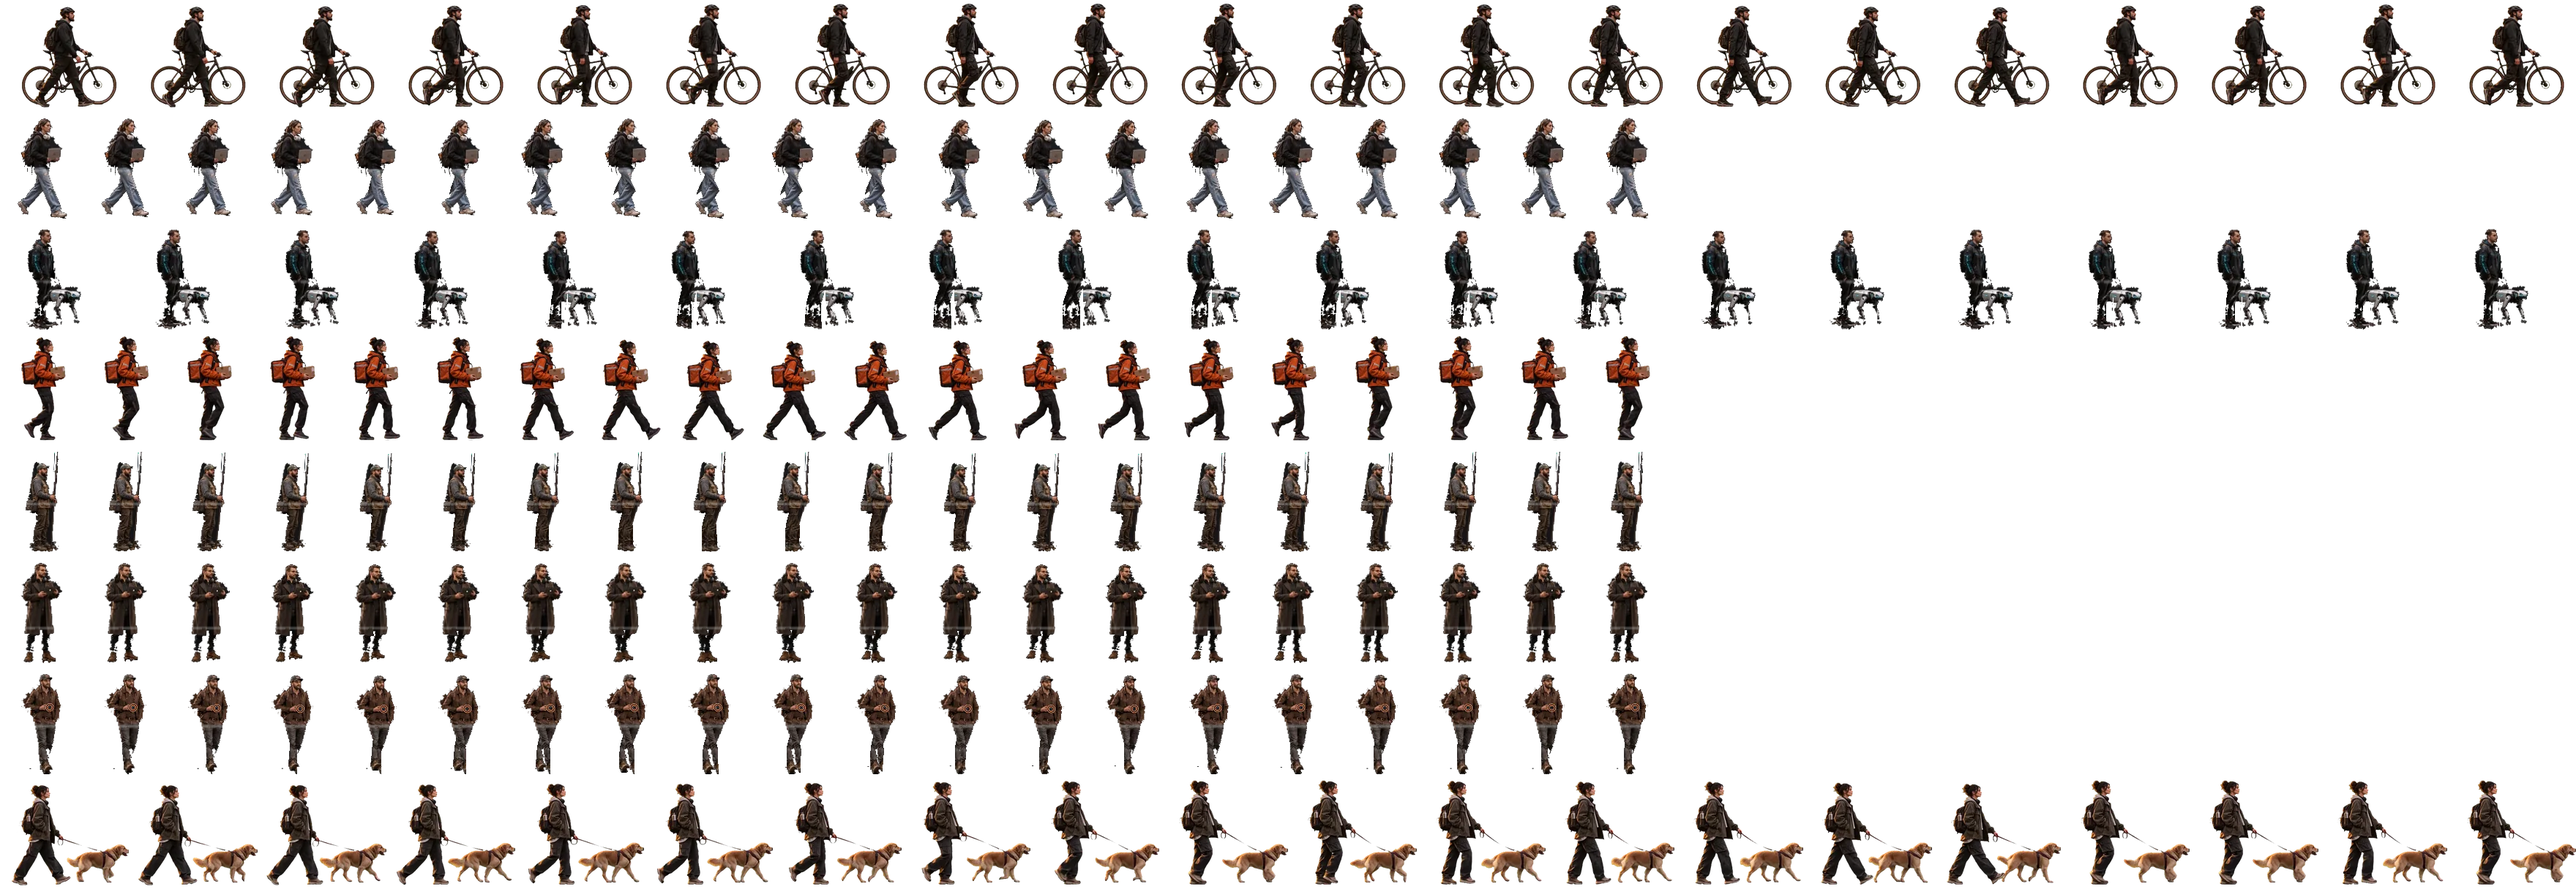
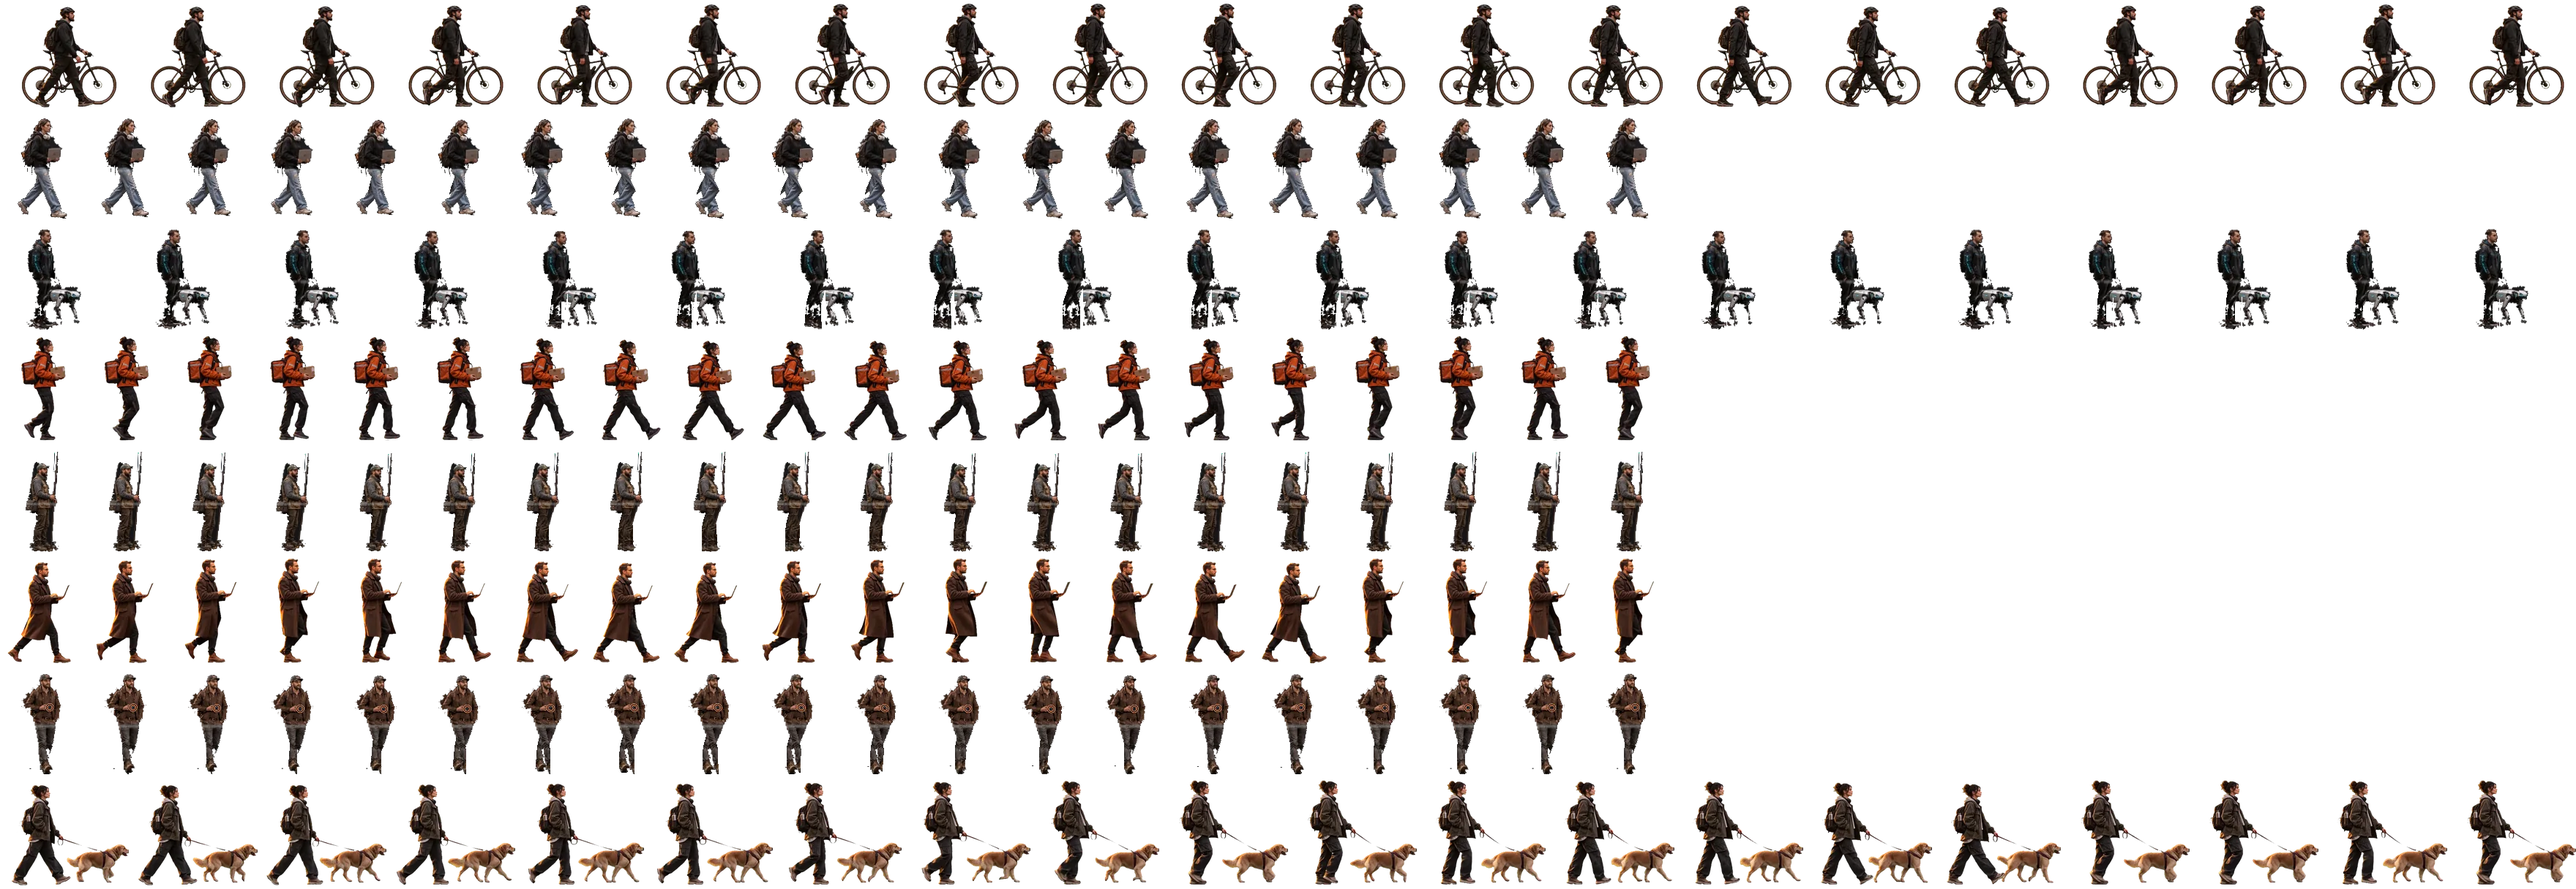
feat(street): the kernel author walks from film; footer and copy fixes
- The kernel author walks from his own generated clip (side-on cut-out
  made from the concept sheet), so all six near-lane people now walk from
  film. Strip and measured stride via scripts/street-walk-strip.mjs.
- The footer circuit is removed rather than hidden behind the photograph.
  music.spec's offscreen/reduced-motion contract now runs on the home
  page's avatar-pad circuit, which still exists.
- From a laptop up the footer no longer repeats the header's page links;
  it keeps Back to top. Phones keep the full list. The links test checks
  visible links and that the header nav is present instead.
- About page title, meta description and intro no longer say "based in
  Varna" (EN and BG): "near Varna" / "from Devnya, near Varna".

Changed region(s): [[0.0, 0.625, 0.6562, 0.75]]

diff --git a/src/i18n/ui/about.ts b/src/i18n/ui/about.ts
@@ -14,8 +14,8 @@ export const about = {
       before: { en: 'I am ', bg: 'Аз съм ' },
       name: { en: 'Nikolay Georgiev', bg: 'Николай Георгиев' },
       after: {
-        en: ', a software engineer based in Varna, Bulgaria, with a Computer Science degree from the University of Ruse. By day I work as a backend developer at DXC Technology on an enterprise insurance platform, where the work is about reading large legacy systems carefully and shipping fixes through a real release process.',
-        bg: ', софтуерен инженер от Варна с бакалавърска степен по компютърни науки от Русенския университет. През деня съм бекенд разработчик в DXC Technology и работя по корпоративна застрахователна платформа. Там работата ми е да чета внимателно големи наследени системи и да пускам корекции през реален процес по издаване на версии.',
+        en: ', a software engineer from Devnya, near Varna, Bulgaria, with a Computer Science degree from the University of Ruse. By day I work as a backend developer at DXC Technology on an enterprise insurance platform, where the work is about reading large legacy systems carefully and shipping fixes through a real release process.',
+        bg: ', софтуерен инженер от Девня, край Варна, с бакалавърска степен по компютърни науки от Русенския университет. През деня съм бекенд разработчик в DXC Technology и работя по корпоративна застрахователна платформа. Там работата ми е да чета внимателно големи наследени системи и да пускам корекции през реален процес по издаване на версии.',
       },
     },
     own: {

diff --git a/tests/e2e/music.spec.ts b/tests/e2e/music.spec.ts
@@ -300,8 +300,7 @@ test('the circuit eases through playback, buffering and decay', () => {
 
 test('keeping the circuit offscreen or reduced stops rendering', async ({ page }) => {
   await page.goto('/');
-  const field = page.locator('circuit-field[data-place=footer]');
-  await expect(field).not.toHaveAttribute('data-running');
+  const field = page.locator('circuit-field[data-place=avatar-pad]');
   await field.scrollIntoViewIfNeeded();
   await expect(field).toHaveAttribute('data-running', '');
   await expect(field).toHaveAttribute('data-playback', 'idle');
@@ -311,7 +310,9 @@ test('keeping the circuit offscreen or reduced stops rendering', async ({ page }
   await expect(field.locator('canvas')).toBeHidden();
   await page.emulateMedia({ reducedMotion: 'no-preference' });
   await expect(field).toHaveAttribute('data-running', '');
-  await page.evaluate(() => window.scrollTo({ top: 0, behavior: 'instant' }));
+  await page.evaluate(() =>
+    window.scrollTo({ top: document.documentElement.scrollHeight, behavior: 'instant' }),
+  );
   await expect(field).not.toHaveAttribute('data-running');
 });
 

diff --git a/tests/e2e/street.spec.ts b/tests/e2e/street.spec.ts
@@ -139,8 +139,17 @@ test.describe('street: layout', () => {
 
   test('the footer keeps its links, and nothing covers them', async ({ page }) => {
     await open(page);
-    const links = page.locator('.street-nav a, .cast a, .site-footer .baseline a');
-    expect(await links.count()).toBeGreaterThanOrEqual(15);
+    // From a laptop up the header carries the page links and the footer keeps
+    // only the way back; on a phone the footer lists them again.
+    const links = page
+      .locator('.street-nav a, .cast a, .site-footer .baseline a')
+      .filter({ visible: true });
+    const wide = page.viewportSize()!.width >= 960;
+    expect(await links.count()).toBeGreaterThanOrEqual(wide ? 9 : 15);
+    if (wide) {
+      await expect(page.locator('.street-nav ul')).toBeHidden();
+      await expect(page.locator('header nav a').first()).toBeVisible();
+    }
     for (const link of await links.all()) {
       await link.scrollIntoViewIfNeeded();
       // The element under the middle of each link is the link (or its text).

diff --git a/src/i18n/ui/seo.ts b/src/i18n/ui/seo.ts
@@ -43,11 +43,11 @@ export const seo = {
   },
   about: {
     title: {
-      en: 'About: software engineer based in Varna',
-      bg: 'За мен: софтуерен инженер от Варна',
+      en: 'About: software engineer near Varna',
+      bg: 'За мен: софтуерен инженер край Варна',
     },
     description: {
-      en: 'Nikolay Georgiev, software engineer in Varna and junior backend developer at DXC, builds full-stack platforms in React, Next.js, Node.js and PostgreSQL.',
+      en: 'Nikolay Georgiev, software engineer near Varna and junior backend developer at DXC, builds full-stack platforms in React, Next.js, Node.js and PostgreSQL.',
       bg: 'Николай Георгиев, софтуерен инженер от Варна и младши бекенд разработчик в DXC, изгражда full-stack платформи с React, Next.js, Node.js и PostgreSQL.',
     },
   },

diff --git a/src/scripts/street/crowd-atlas.ts b/src/scripts/street/crowd-atlas.ts
@@ -88,6 +88,7 @@ export const CROWD_SPRITES: Record<string, SpriteStripEntry> = {
     h: 152,
     frames: 20,
     soleY: 146,
+    stride: 0.972,
     headTopRatio: 0.066,
   },
   maker: {
@@ -217,6 +218,7 @@ export const CROWD_NEAR: Record<string, SpriteStripEntry> = {
     h: 380,
     frames: 12,
     soleY: 365,
+    stride: 0.972,
     headTopRatio: 0.066,
   },
   'dog-walker': {
